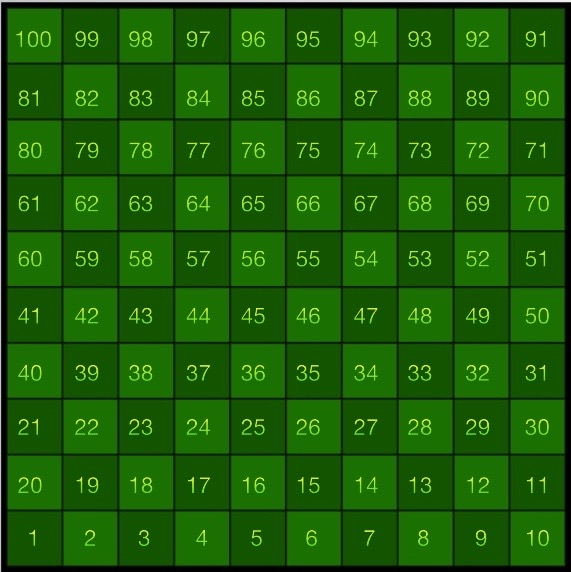
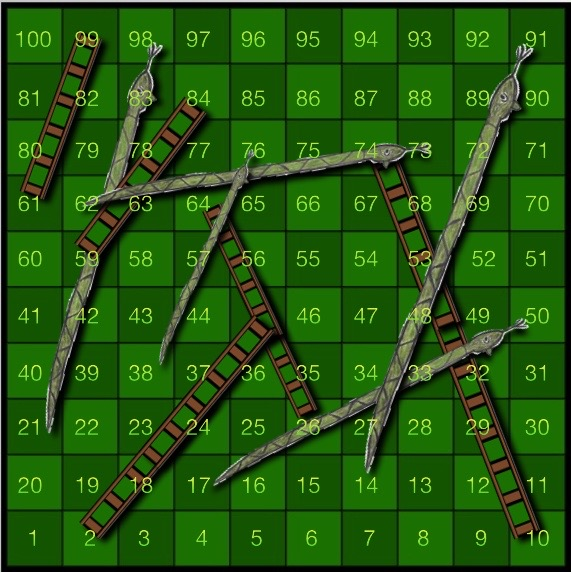
board_image_finalised

Changed region(s): [[0.0595, 0.0594, 0.9527, 0.951], [0.0298, 0.0594, 0.2084, 0.3566]]

diff --git a/client/src/App.vue b/client/src/App.vue
@@ -3,8 +3,6 @@
   <!-- <div> -->
 <h2 id="title">Snakes and Ladders</h2>
 <!-- </div> -->
-
-    <img src="./assets/game_board.jpg" id="board">
     <!--<img src="./assets/dice.jpg" id="dice">
     <img src="./assets/players.jpg" id="players"> -->
     <game-board :players='players'></game-board>
@@ -54,16 +52,17 @@ export default {
     background-image: linear-gradient(to right, lime , green);
 }
 
-
+/*
 #board {
   position: absolute;
   max-width:26.54%;
   height: auto;
   left: 705px;
   /* align-self: flex-end;
-  flex-flow: column-reverse; */
+  flex-flow: column-reverse;
   opacity: 0.4;
-}
+}*/
+
 
 #players {
   position: absolute;

diff --git a/client/src/components/GameBoard.vue b/client/src/components/GameBoard.vue
@@ -1,6 +1,10 @@
 <template lang="html">
   <div onload= "gameArea.start">
+      <div id='board-container'>
+    <img src="../assets/game_board.jpg" id="board">
     <canvas id="c" width = "500" height="500"> </canvas>
+  </div>
+
     <p>gameboard maybe?</p>
     <!-- <button v-on:click="drawBoard()">rect</button> -->
     <dice></dice>
@@ -183,5 +187,22 @@ export default {
 <style lang="css" scoped>
 canvas{
   border: 5px solid black;
+  grid-area: 1/1; 
 }
+
+#board{
+  opacity: 40%;
+  grid-area: 1/1;
+  width: 510px;
+  height: 510px;
+  z-index: 2;
+}
+
+#board-container{
+  display: grid;
+  place-items: center;
+}
+
+
+
 </style>
